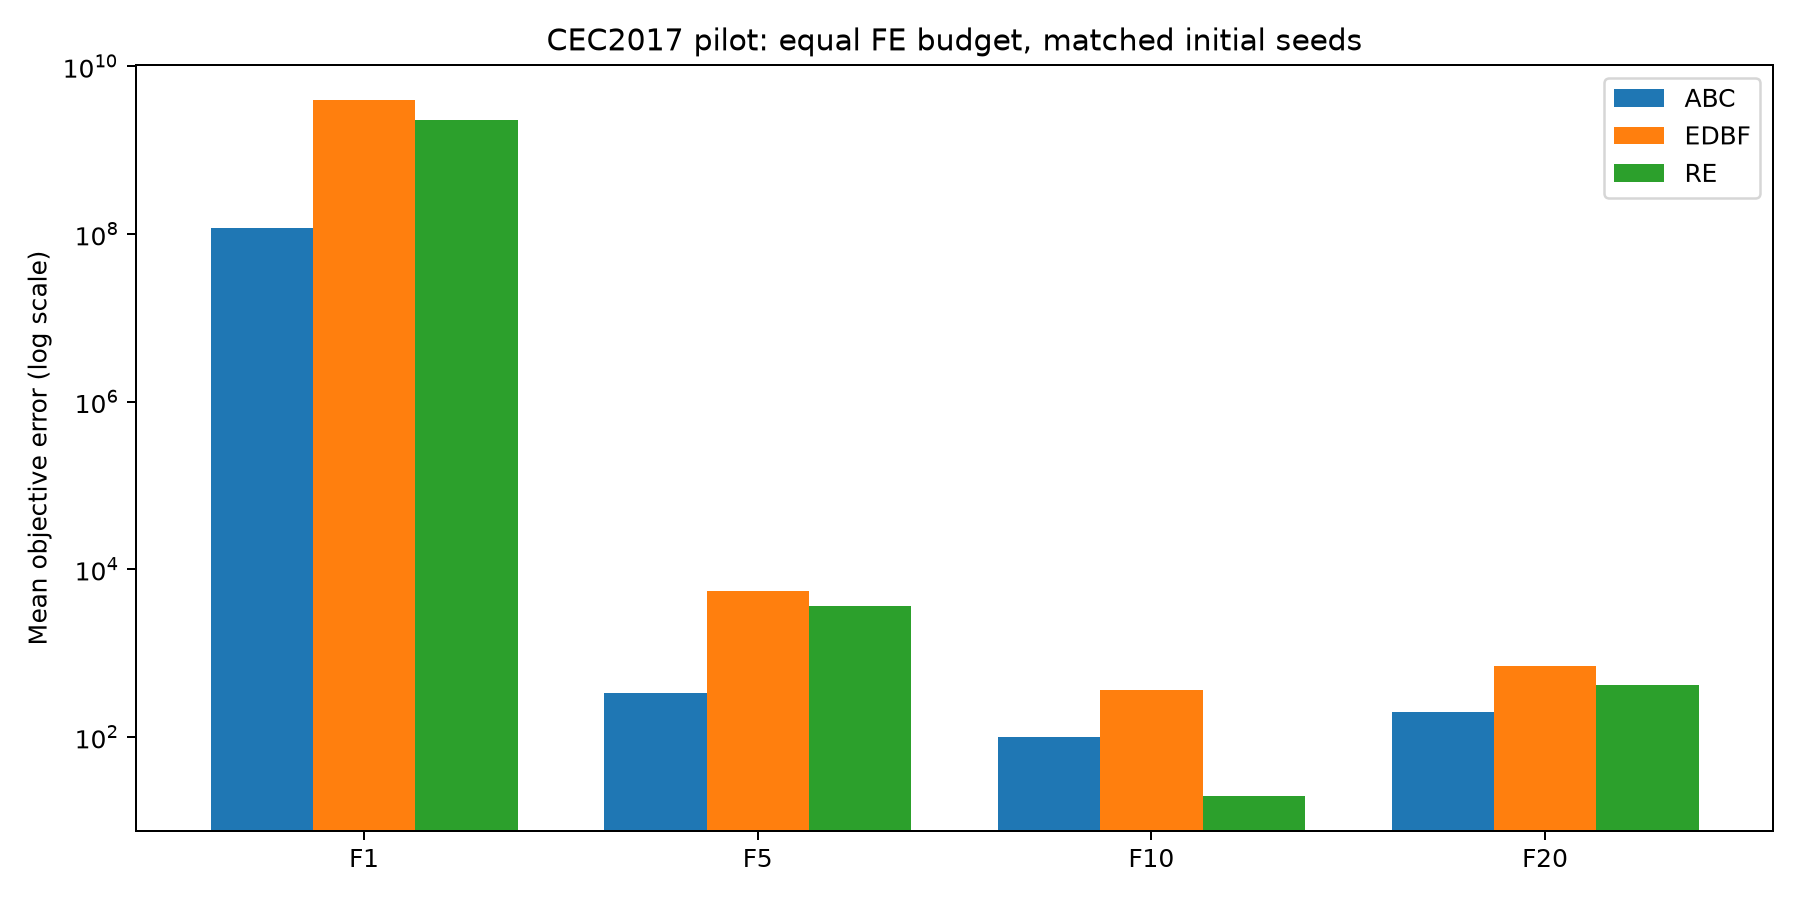
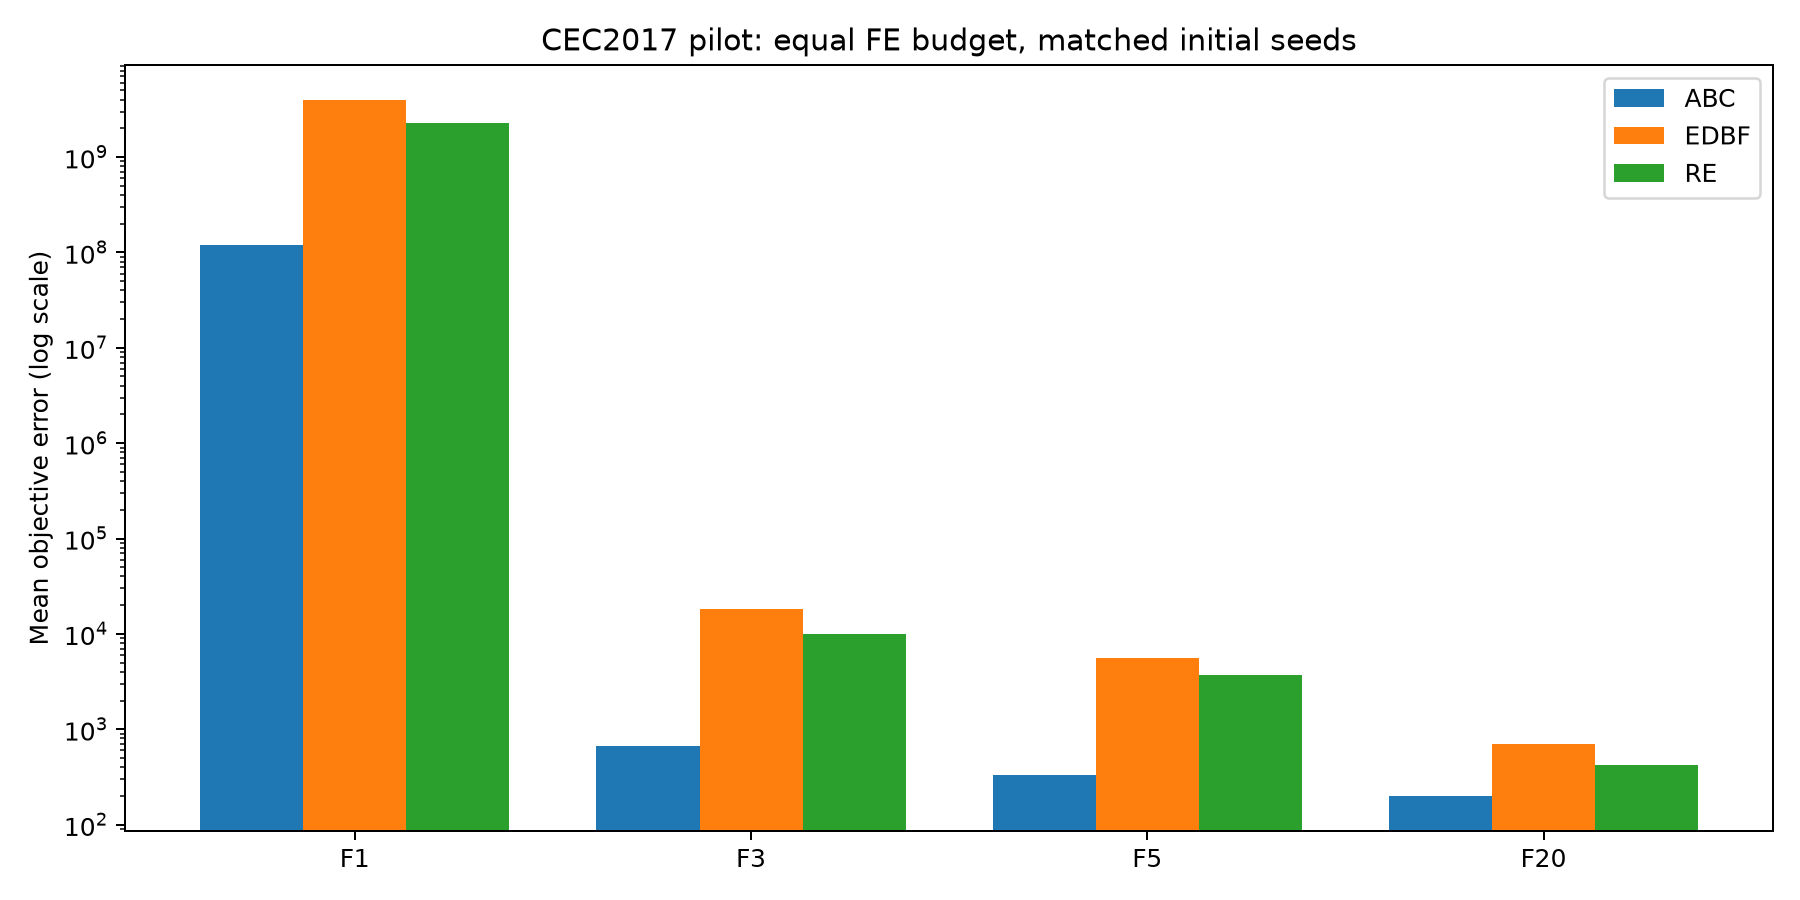
data: publish CEC2017 paired-seed validation pilot

diff --git a/docs/experiments/cec2017-pilot-2026-10-17/validation_readme.md b/docs/experiments/cec2017-pilot-2026-10-17/validation_readme.md
@@ -3,14 +3,16 @@
 ## Experiment protocol
 
 - Benchmark: CEC2017 through opfunu, D=10.
-- Functions: F1, F5, F10, F20.
+- Functions: F1, F3, F5, F20.
 - Methods: abc, edbf, re.
 - Repetitions: 5 per function and method.
 - Maximum function evaluations: 1500 per trial (initial 100 included).
 - Optimizer: population N=100; parent count M=15; elite parents K=5; offspring L=1.
 - Same RNG seed for all methods in a function/repetition pair.
 - Offspring outside the search box are clipped by the existing optimizer.
-- Error = max(0, obtained objective - benchmark known optimum); lower is better.
+- Error = obtained objective - benchmark known optimum; lower is better.
+- A trial whose objective is below the declared benchmark optimum is rejected.
+- F10 and F30 are excluded from this pilot due to observed opfunu numerical inconsistencies.
 - Runtime is measured wall-clock time on a shared GitHub Actions runner.
 - This is a limited-budget pilot and is NOT a full reproduction of the paper.
 
@@ -18,27 +20,27 @@
 
 | Function | Method | Mean error | SD | Mean runtime (s) | Mean evaluations | Mean attempts / child |
 |:---|:---|---:|---:|---:|---:|---:|
-| F1 | ABC | 1.18838e+08 | 7.19e+07 | 0.309 | 1500 | 1.000 |
-| F1 | EDBF | 3.94723e+09 | 2.14e+09 | 2.652 | 1500 | 4.957 |
-| F1 | RE | 2.2794e+09 | 5.05e+08 | 2.855 | 1500 | 209.205 |
-| F5 | ABC | 331.258 | 62.5 | 0.316 | 1500 | 1.000 |
-| F5 | EDBF | 5587.19 | 1.6e+03 | 2.643 | 1500 | 4.956 |
-| F5 | RE | 3672.93 | 915 | 2.888 | 1500 | 210.373 |
-| F10 | ABC | 101.027 | 207 | 0.389 | 1500 | 1.000 |
-| F10 | EDBF | 359.534 | 343 | 2.758 | 1500 | 5.013 |
-| F10 | RE | 19.9414 | 44.6 | 3.003 | 1500 | 212.082 |
-| F20 | ABC | 200.924 | 88.1 | 0.611 | 1500 | 1.000 |
-| F20 | EDBF | 699.225 | 261 | 2.938 | 1500 | 4.970 |
-| F20 | RE | 419.052 | 129 | 3.213 | 1500 | 211.781 |
+| F1 | ABC | 1.18838e+08 | 7.19e+07 | 0.172 | 1500 | 1.000 |
+| F1 | EDBF | 3.94723e+09 | 2.14e+09 | 1.559 | 1500 | 4.957 |
+| F1 | RE | 2.2794e+09 | 5.05e+08 | 1.863 | 1500 | 209.205 |
+| F3 | ABC | 666.692 | 226 | 0.176 | 1500 | 1.000 |
+| F3 | EDBF | 18447.5 | 5.4e+03 | 1.554 | 1500 | 4.975 |
+| F3 | RE | 9957.88 | 4.27e+03 | 1.921 | 1500 | 214.364 |
+| F5 | ABC | 331.258 | 62.5 | 0.173 | 1500 | 1.000 |
+| F5 | EDBF | 5587.19 | 1.6e+03 | 1.567 | 1500 | 4.956 |
+| F5 | RE | 3672.93 | 915 | 1.881 | 1500 | 210.373 |
+| F20 | ABC | 200.924 | 88.1 | 0.364 | 1500 | 1.000 |
+| F20 | EDBF | 699.225 | 261 | 1.754 | 1500 | 4.970 |
+| F20 | RE | 419.052 | 129 | 2.086 | 1500 | 211.781 |
 
 ## Per-function error leaders
 
 - F1: abc (mean error 1.18838e+08).
+- F3: abc (mean error 666.692).
 - F5: abc (mean error 331.258).
-- F10: re (mean error 19.9414).
 - F20: abc (mean error 200.924).
 
-Functions with lowest observed mean error (ties counted for all leaders): abc=3, edbf=0, re=1.
+Functions with lowest observed mean error (ties counted for all leaders): abc=4, edbf=0, re=0.
 
 ## Validation checks
 
